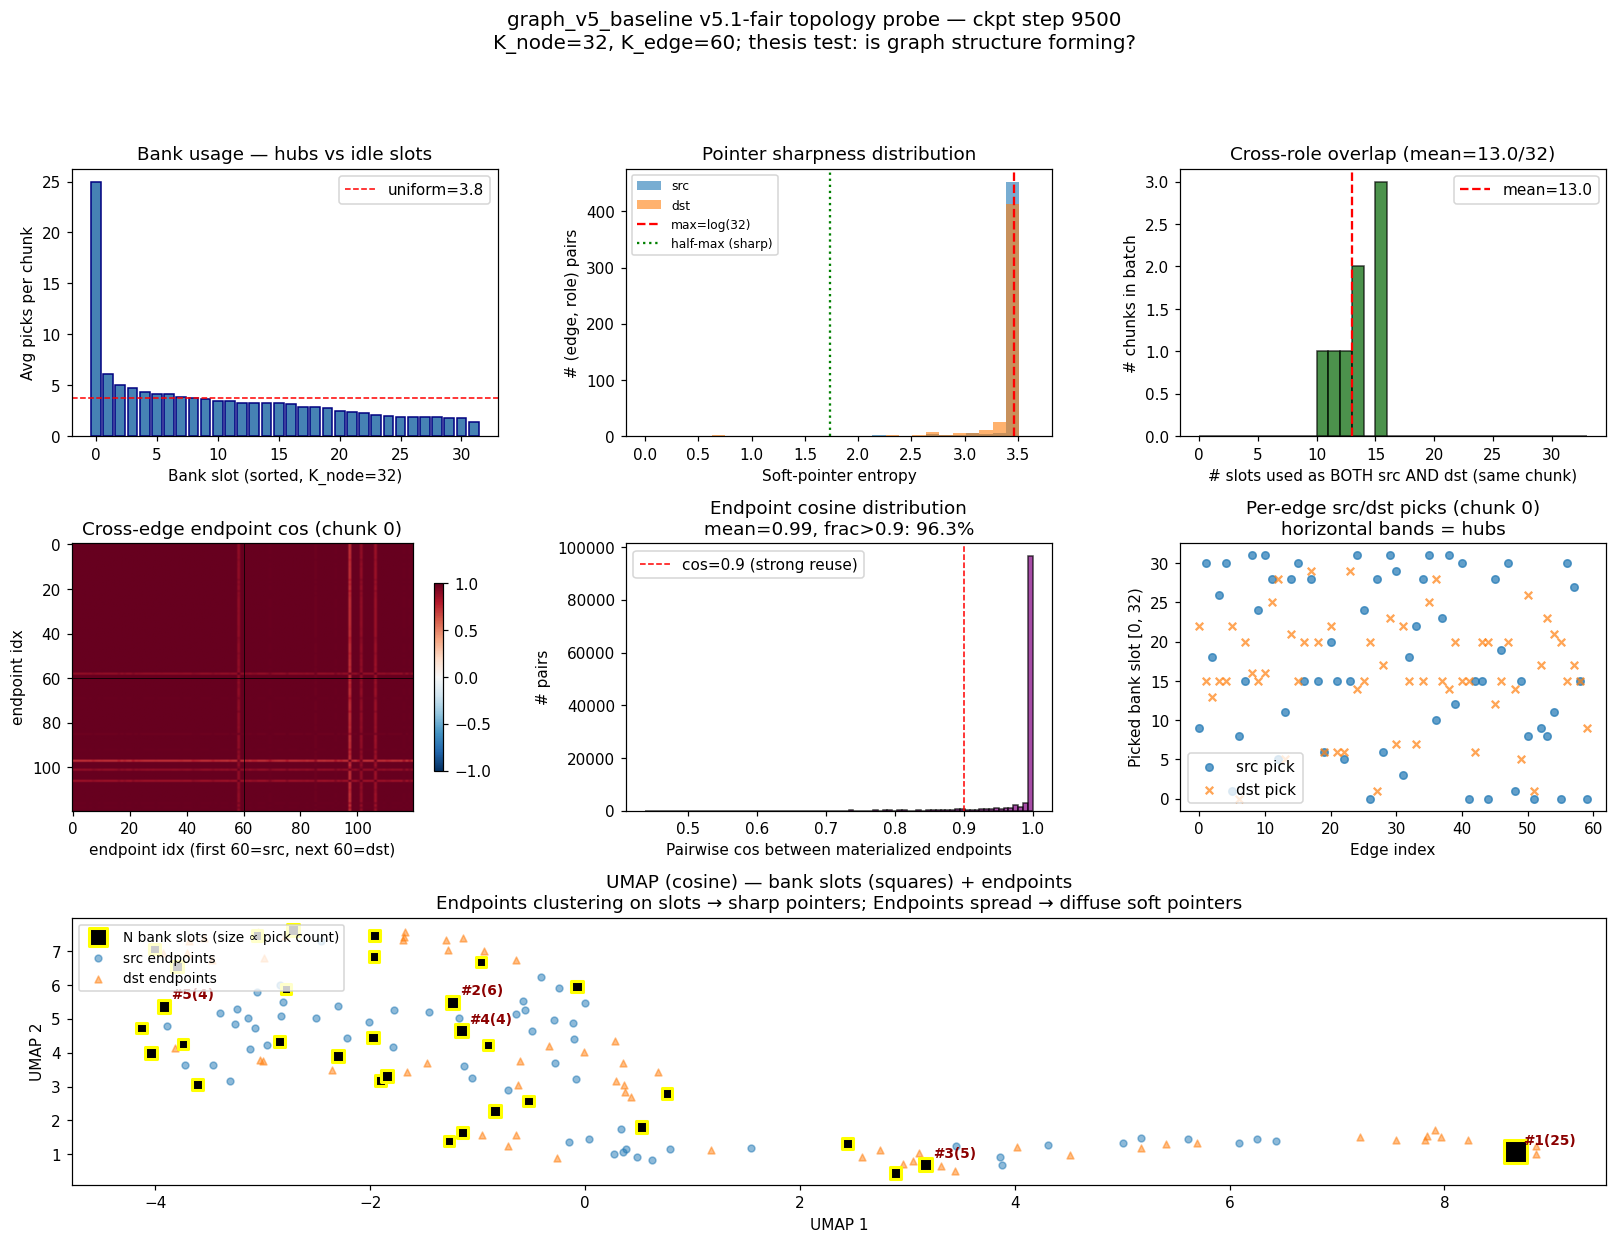
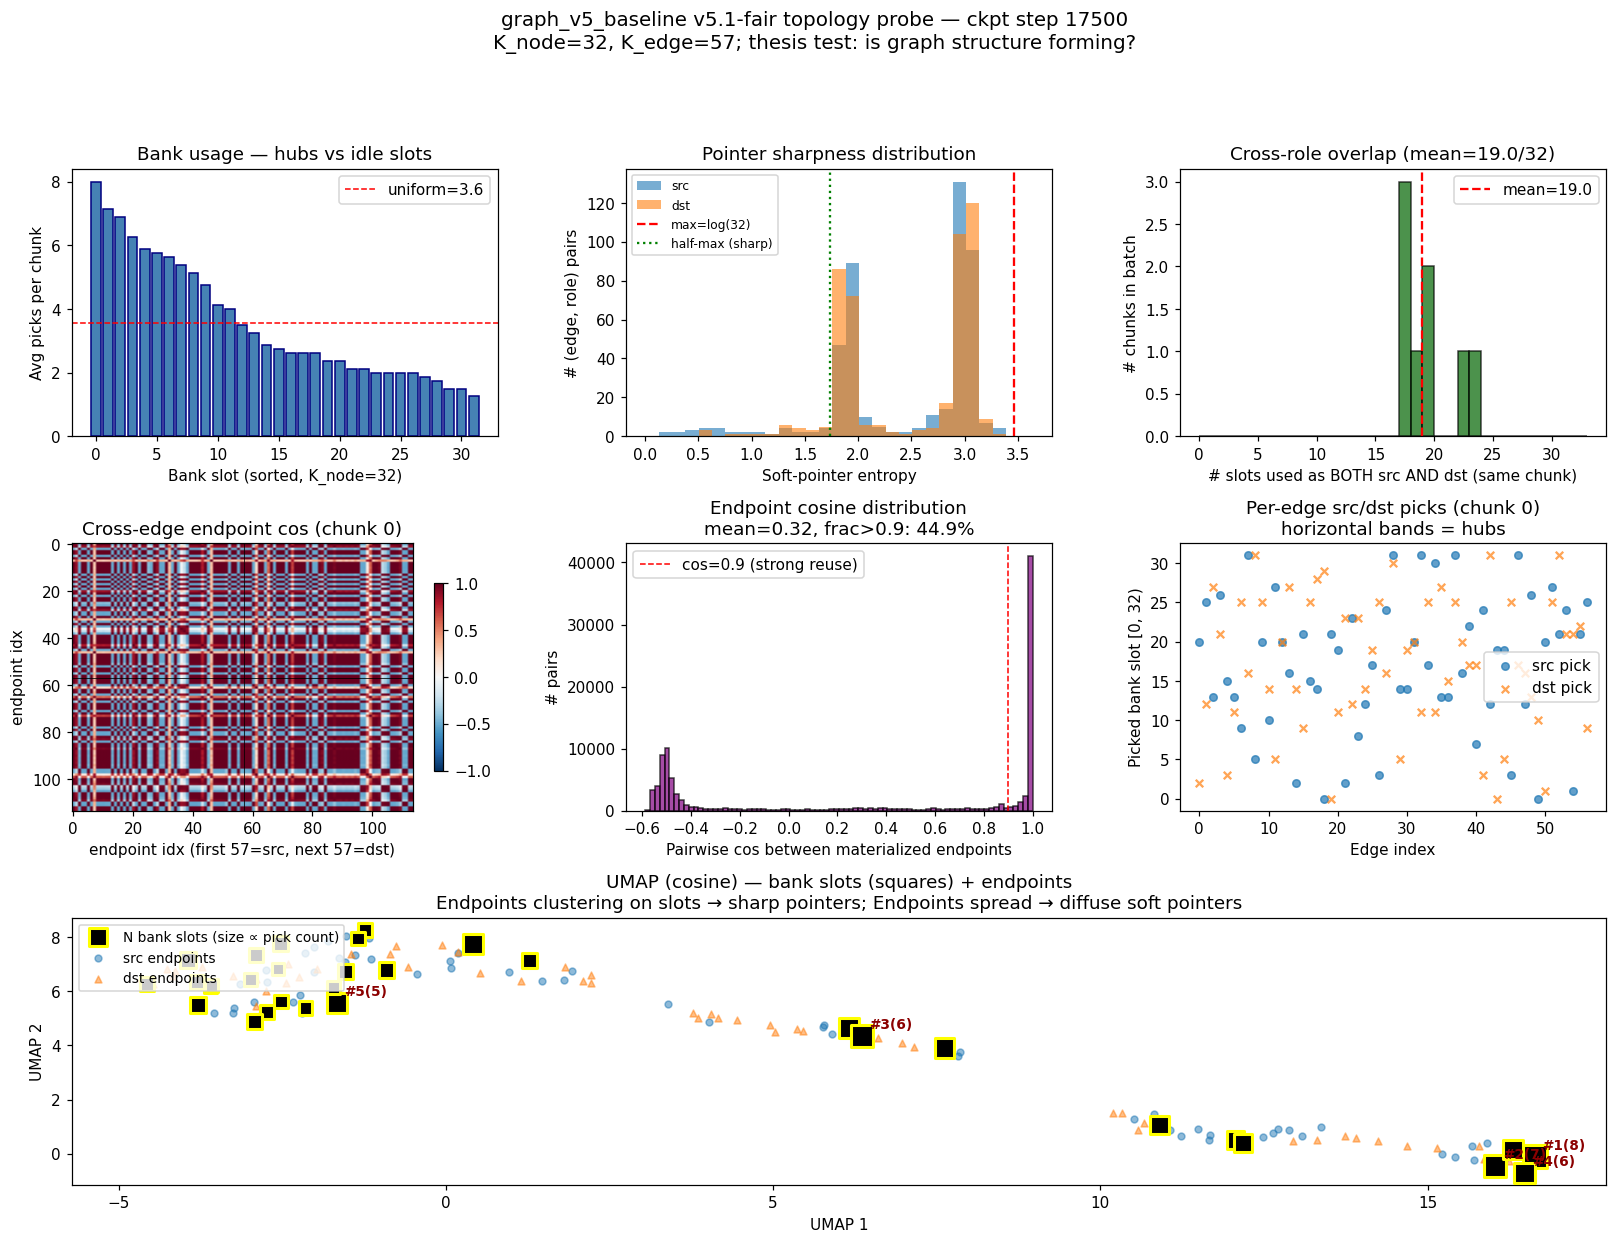
probe_graph_v5: wire to v5.4 ckpt, use trained soft_pointer, strict load
- Default CKPT switched from v5_1_fair to v5_4_first (current).
- Use enc.soft_pointer when available (matches model behavior) with
  fallback to stateless materialize_endpoints for older ckpts.
- Strict load: capture missing/unexpected, raise unless they appear in
  ALLOWED sets. soft_pointer.W_v.weight is the only allowed unexpected
  key (dead in v5.4 readout, see backlog).
- Detach soft_pointer outputs before .numpy() — soft_pointer keeps grad
  on W_k/log_tau leaves even under torch.no_grad.

v5.4 numbers vs v5.1-fair on 8 HotpotQA chunks:
- bank usage: 100% (was 81%)
- cross-role overlap: 59% (was 38%) — node identity reuse is the thesis
- pointer entropy: 71% of max (was 98%) — sharp pointers now actually used
- materialized endpoint cos: 0.32 (was 0.99) — endpoints diverged
- effective reuse: 96% (1.0=full)

The lower-temperature SoftPointer + MP readout together collapsed the
"fuzzy endpoint mean" problem that limited v5.1.

diff --git a/scripts/repr_learning/probe_graph_v5.py b/scripts/repr_learning/probe_graph_v5.py
@@ -44,8 +44,14 @@ from src.repr_learning.data_qa import HotpotQADataset, collate_qa
 
 
 ROOT = Path("/home/alex/code/neuromorphic")
-CKPT = ROOT / "outputs/repr_learning/v5_1_fair_graph_v5_baseline/ckpts/graph_v5_baseline.best.pt"
+CKPT = ROOT / "outputs/repr_learning/v5_4_first_graph_v5_baseline/ckpts/graph_v5_baseline.best.pt"
 OUT = ROOT / "docs/plots/v5_topology_diagnostic.png"
+# Keys that legitimately differ between v5.4 and current code (e.g. dead
+# soft_pointer.W_v weights that the readout no longer consumes). Anything
+# else missing/unexpected indicates checkpoint/config drift and should
+# raise — silent random-init renders are a footgun.
+ALLOWED_MISSING: set[str] = set()
+ALLOWED_UNEXPECTED = {"soft_pointer.W_v.weight"}
 
 
 def load_encoder(ckpt_path: Path) -> tuple[GraphV5BaselineEncoder, ReprConfig, int]:
@@ -56,9 +62,16 @@ def load_encoder(ckpt_path: Path) -> tuple[GraphV5BaselineEncoder, ReprConfig, i
                  if k.startswith("encoder.")}
     missing, unexpected = enc.load_state_dict(enc_state, strict=False)
     step = sd.get("step", -1)
+    bad_missing = [k for k in missing if k not in ALLOWED_MISSING]
+    bad_unexpected = [k for k in unexpected if k not in ALLOWED_UNEXPECTED]
     print(f"[ckpt] step={step} | missing={len(missing)} | unexpected={len(unexpected)}")
-    if missing:
-        print(f"  missing examples: {missing[:5]}")
+    if bad_missing or bad_unexpected:
+        raise RuntimeError(
+            f"checkpoint/config drift detected:\n"
+            f"  missing (not in ALLOWED_MISSING): {bad_missing[:10]}\n"
+            f"  unexpected (not in ALLOWED_UNEXPECTED): {bad_unexpected[:10]}\n"
+            f"if this is intentional, update ALLOWED_MISSING/UNEXPECTED."
+        )
     enc.train(False)
     return enc, cfg, step
 
@@ -100,10 +113,16 @@ def run_forward(enc, cfg, llama_embed, batch, device):
     q_dst = state["q_dst"]
     edge_state = state["state"]
 
-    # Materialize at the encoder's configured temperature
-    temp = enc.read_temperature
-    endpoint_src, attn_src = materialize_endpoints(q_src, N, temperature=temp)
-    endpoint_dst, attn_dst = materialize_endpoints(q_dst, N, temperature=temp)
+    # v5.4 uses a trained SoftPointer (W_k key projection + learnable τ).
+    # Older v5.x ckpts pre-date soft_pointer; fall back to the stateless
+    # materialize_endpoints function for those.
+    if hasattr(enc, "soft_pointer"):
+        endpoint_src, attn_src = enc.soft_pointer(q_src, N)
+        endpoint_dst, attn_dst = enc.soft_pointer(q_dst, N)
+    else:
+        temp = enc.read_temperature
+        endpoint_src, attn_src = materialize_endpoints(q_src, N, temperature=temp)
+        endpoint_dst, attn_dst = materialize_endpoints(q_dst, N, temperature=temp)
     return {
         "N": N, "q_src": q_src, "q_dst": q_dst, "state": edge_state,
         "endpoint_src": endpoint_src, "endpoint_dst": endpoint_dst,
@@ -113,8 +132,11 @@ def run_forward(enc, cfg, llama_embed, batch, device):
 
 def analyze(probe_out, K_node, K_edge):
     """Print numerical summary + return arrays for plotting."""
-    attn_src = probe_out["attn_src"].float().cpu()                   # [B, K_edge, K_node]
-    attn_dst = probe_out["attn_dst"].float().cpu()
+    # detach() because enc.soft_pointer keeps grad-tracking enabled on
+    # its W_k/log_tau leaf tensors even under torch.no_grad — without
+    # detach, downstream .numpy() calls raise.
+    attn_src = probe_out["attn_src"].detach().float().cpu()           # [B, K_edge, K_node]
+    attn_dst = probe_out["attn_dst"].detach().float().cpu()
     B = attn_src.shape[0]
 
     # ── Bank usage ──────────────────────────────────────────────────────
@@ -162,8 +184,8 @@ def analyze(probe_out, K_node, K_edge):
     print(f"  Fraction below 50% of max entropy: {frac_sharp:.2f}  (sharp = good)")
 
     # ── Cross-edge endpoint sharing ──────────────────────────────────────
-    endpoint_src = probe_out["endpoint_src"].float().cpu()
-    endpoint_dst = probe_out["endpoint_dst"].float().cpu()
+    endpoint_src = probe_out["endpoint_src"].detach().float().cpu()
+    endpoint_dst = probe_out["endpoint_dst"].detach().float().cpu()
     ep_bank = torch.cat([endpoint_src, endpoint_dst], dim=1)          # [B, 2K_edge, d_node]
     ep_n = F.normalize(ep_bank, dim=-1, eps=1e-6)
     cos_mat = ep_n @ ep_n.transpose(-1, -2)